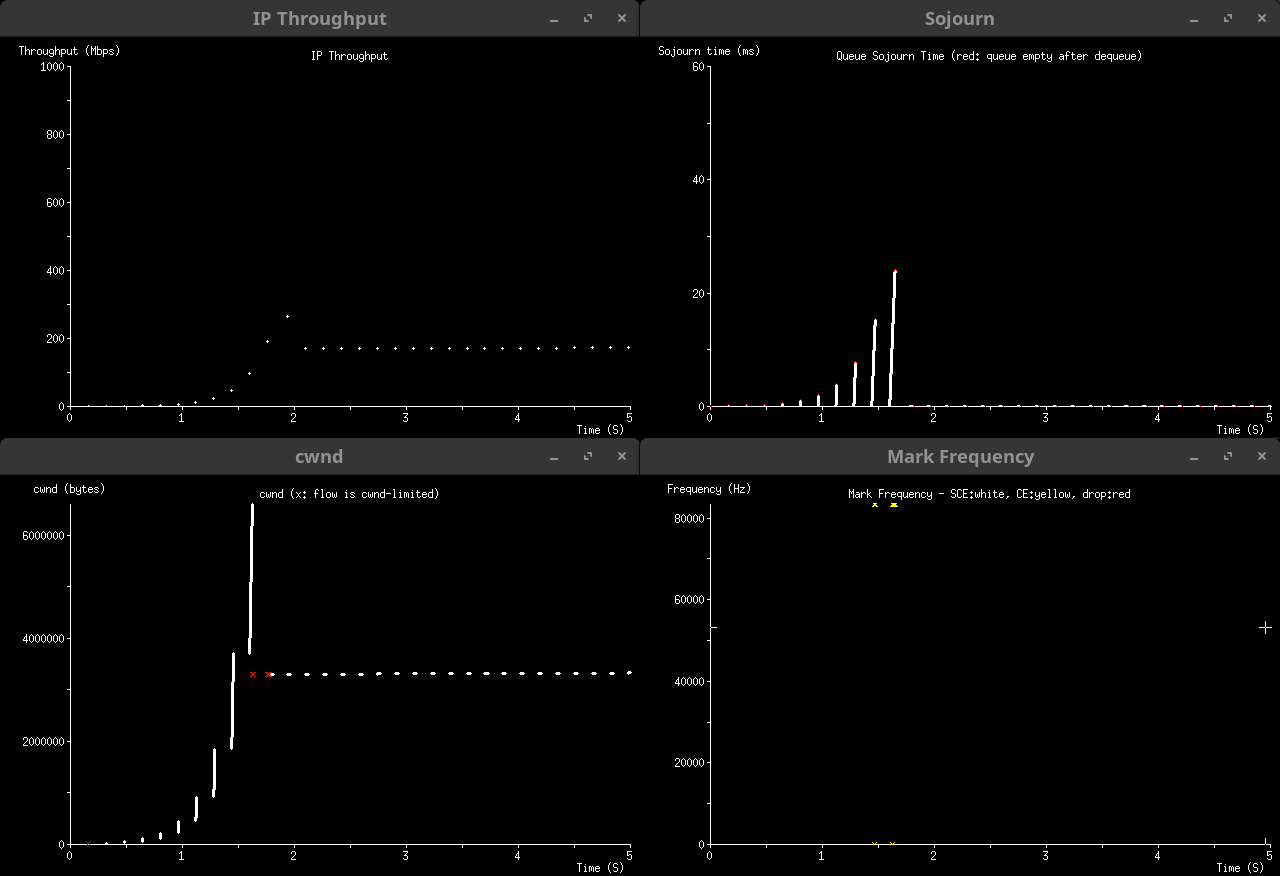
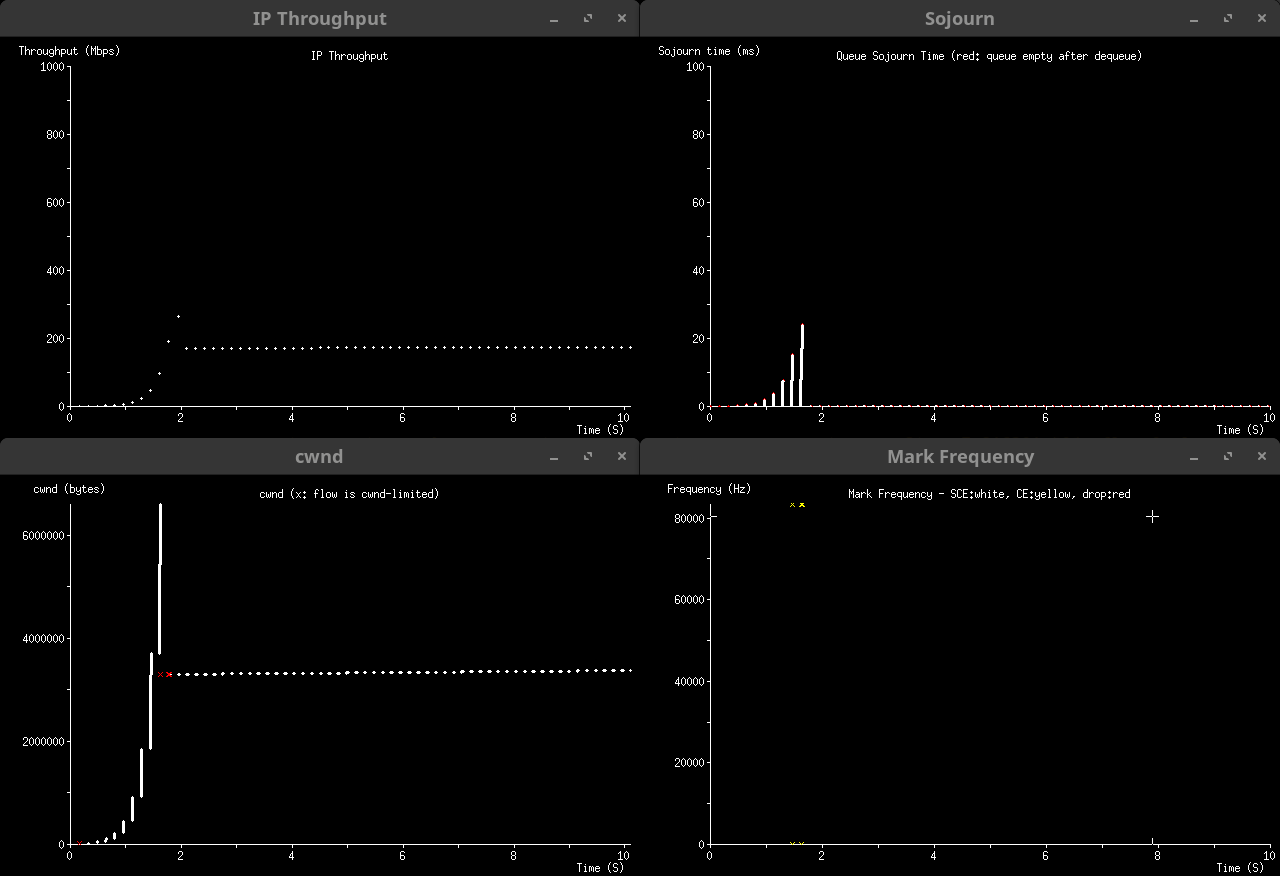
Add commentary and update high RTT tests to be 10 seconds long

Changed region(s): [[0.5938, 0.4007, 0.6875, 0.4623]]

diff --git a/ESSP.md b/ESSP.md
@@ -205,11 +205,33 @@ marking at a sojourn time threshold of 12 ms.  This approximates the behavior in
 a FIFO queue, but since packets are not dropped at the threshold, sojourn times
 are not clamped like they would be in a FIFO.
 
-All flows use the Reno CCA, because the main focus is on slow start behavior.
-All standard slow start flows have pacing disabled, and all ESSP flows have
-pacing enabled.
+All flows use the Reno CCA, because the main focus is on slow start (SS)
+behavior.  All standard slow start flows have pacing disabled, and all ESSP
+flows have pacing enabled.
 
-### One Flow
+In addition to the plots, there are links to the log files with each of the
+Figure captions.  These show slow start exit times and cwnd, and stage
+information for ESSP.
+
+### One Flow at 20 ms RTT
+
+This series of tests compares standard SS vs ESSP at 20 ms RTT, with three
+different bandwidths: 100 Mbps (Figure 1a/1b), 1000 Mbps (Figure 2a/2b) and 10
+Gbps (Figure 3a/3b).
+
+Comparing Figure 1a (standard) vs Figure 1b (ESSP), we see that standard SS
+exits with a cwnd of 375756 bytes (from the log file), and ESSP exits at 258222,
+much closer to the BDP of 250000 bytes.  Since standard is too high, it's marked
+with CE shortly after SS exit, causing a multiplicative decrease (MD) and loss
+in throughput earlier than necessary.
+
+We also see in the ESSP log files for Figures 1b, 2b and 3b that ESSP is able to
+perform slow start using only its delay trigger, resulting in smaller sojourn
+time excursions in each case than standard SS.
+
+In the 10 Gbps case (Figure 3b), ESSP hasn't quite exited slow start by the end
+of the two second test, but we can see that its exit cwnd would already be very
+close to the BDP of 25 MB.
 
 ![Figure 1a](results/f1a-oneflow-100mbps-20ms-std.png)
 *Figure 1a: One flow, 100 Mbps, 20 ms RTT, standard slow start
@@ -239,37 +261,68 @@ pacing enabled.
 *Figure 3b: One flow, 10000 Mbps, 20 ms RTT, ESSP
 ([log](results/f3b-oneflow-10000mbps-20ms-essp.txt))*
 
-### Two Flow
+### Two Flows at 20 ms RTT
+
+This series of tests **always** starts with an ESSP flow (so it reliably reaches
+BDP), then introduces a second flow at T=10 seconds using either standard SS or
+ESSP.  Figures 1a&1b are at 100 Mbps, Figures 2a&2b are at 1000 Mbps and Figures
+3a&3b are at 10 Gbps.
+
+In each of the results, ESSP induces less queueing delay when the second flow is
+introduced than standard SS, due to its delay trigger.
+
+We see that while the exit cwnd for ESSP in the 100 Mbps and 1000 Mbps cases is
+close to half the capacity, it's lower in the 10 Gbps case.  It's not a goal of
+ESSP for new flows to exit SS at their fair share, but to make good use of the
+available capacity.  We also note that Reno-linear growth is slow and not well
+suited to 10 Gbps at 20 ms RTT, so convergence times are long.  Either CUBIC or
+a scalable congestion control algorithm (CCA) would be better suited to these
+conditions.
 
 ![Figure 4a](results/f4a-twoflow-100mbps-20ms-std.png)
-*Figure 4a: Two flow, 100 Mbps, 20 ms RTT, standard slow start
+*Figure 4a: Two flow, 100 Mbps, 20 ms RTT, ESSP then standard slow start
 ([log](results/f4a-twoflow-100mbps-20ms-std.txt))*
 
 ![Figure 4b](results/f4b-twoflow-100mbps-20ms-essp.png)
-*Figure 4b: Two flow, 100 Mbps, 20 ms RTT, ESSP
+*Figure 4b: Two flow, 100 Mbps, 20 ms RTT, ESSP then ESSP
 ([log](results/f4b-twoflow-100mbps-20ms-essp.txt))*
 
 ---
 
 ![Figure 5a](results/f5a-twoflow-1000mbps-20ms-std.png)
-*Figure 5a: Two flow, 1000 Mbps, 20 ms RTT, standard slow start
+*Figure 5a: Two flow, 1000 Mbps, 20 ms RTT, ESSP then standard slow start
 ([log](results/f5a-twoflow-1000mbps-20ms-std.txt))*
 
 ![Figure 5b](results/f5b-twoflow-1000mbps-20ms-essp.png)
-*Figure 5b: Two flow, 1000 Mbps, 20 ms RTT, ESSP
+*Figure 5b: Two flow, 1000 Mbps, 20 ms RTT, ESSP then ESSP
 ([log](results/f5b-twoflow-1000mbps-20ms-essp.txt))*
 
 ---
 
 ![Figure 6a](results/f6a-twoflow-10000mbps-20ms-std.png)
-*Figure 6a: Two flow, 10000 Mbps, 20 ms RTT, standard slow start
+*Figure 6a: Two flow, 10000 Mbps, 20 ms RTT, ESSP then standard slow start
 ([log](results/f6a-twoflow-10000mbps-20ms-std.txt))*
 
 ![Figure 6b](results/f6b-twoflow-10000mbps-20ms-essp.png)
-*Figure 6b: Two flow, 10000 Mbps, 20 ms RTT, ESSP
+*Figure 6b: Two flow, 10000 Mbps, 20 ms RTT, ESSP then ESSP
 ([log](results/f6a-twoflow-10000mbps-20ms-std.txt))*
 
 ### Low RTT
+
+This series of tests compares standard SS vs ESSP at low RTT (1 ms), with two
+different bandwidths: 100 Mbps (Figure 7a/7b) and 1000 Mbps (Figure 8a/8b).
+
+At 1 ms RTT, ESSP is able to use its delay trigger to exit much earlier than
+standard SS, with virtually no decrease in utilization.  With ESSP, the delay
+excursions are smaller, and as we can see in Table 1, slow start exit for ESSP
+is much closer to BDP.
+
+|                               | 100 Mbps     | 1000 Mbps     |
+|-------------------------------|--------------|---------------|
+| BDP                           | 12500 bytes  | 125000 bytes  |
+| Standard slow start exit cwnd | 157108 bytes | 1568908 bytes |
+| ESSP exit cwnd                | 16753 bytes  | 125911 bytes  |
+*Table 1: Comparison of BDP vs standard SS vs ESSP exit cwnd at 1 ms RTT*
 
 ![Figure 7a](results/f7a-oneflow-100mbps-1ms-std.png)
 *Figure 7a: One flow, 100 Mbps, 1 ms RTT, standard slow start
@@ -291,6 +344,23 @@ pacing enabled.
 
 ### High RTT
 
+This series of tests compares standard SS vs ESSP at high RTT (160 ms), with two
+different bandwidths: 100 Mbps (Figure 9a/9b) and 1000 Mbps (Figure 10a/10b).
+
+At high RTT, standard SS has the opposite problem that it has at low RTT.
+Rather than exiting late, with a high cwnd, it exits early, with a low cwnd.
+
+At first glance, it might seem that the lower sojourn time excursions for
+standard SS are better than for ESSP, but since standard SS is not reaching
+capacity, the two cannot be compared.
+
+|                               | 100 Mbps       | 1000 Mbps      |
+|-------------------------------|----------------|----------------|
+| BDP                           | 2000000 bytes  | 20000000 bytes |
+| Standard slow start exit cwnd | 375756 bytes   | 3300716 bytes  |
+| ESSP exit cwnd                | 1990610 bytes  | 19813302 bytes |
+*Table 2: Comparison of BDP vs standard SS vs ESSP exit cwnd at 160 ms RTT*
+
 ![Figure 9a](results/f9a-oneflow-100mbps-160ms-std.png)
 *Figure 9a: One flow, 100 Mbps, 160 ms RTT, standard slow start
 ([log](results/f9a-oneflow-100mbps-160ms-std.txt))*
@@ -310,6 +380,15 @@ pacing enabled.
 ([log](results/f10b-oneflow-1000mbps-160ms-essp.txt))*
 
 ### SCE Marking
+
+This series of ESSP-only tests uses the DelTiC AQM, with and without SCE
+marking, at two different bandwidths: 100 Mbps (Figure 11a/11b) and 1000 Mbps
+(Figure 12a/12b).
+
+In both cases, the earlier SCE marking assists ESSP in completing slow start
+sooner, and with lower delay excursions.  At 1000 Mbps (Figure 12a), we see that
+with CE marking, ESSP has not completed after 5 seconds, whereas it exits at 2
+seconds with SCE marking (Figure 12b).
 
 ![Figure 11a](results/f11a-oneflow-100mbps-80ms-essp.png)
 *Figure 11a: One non-SCE flow, 100 Mbps, 80 ms RTT, ESSP, DelTiC AQM
